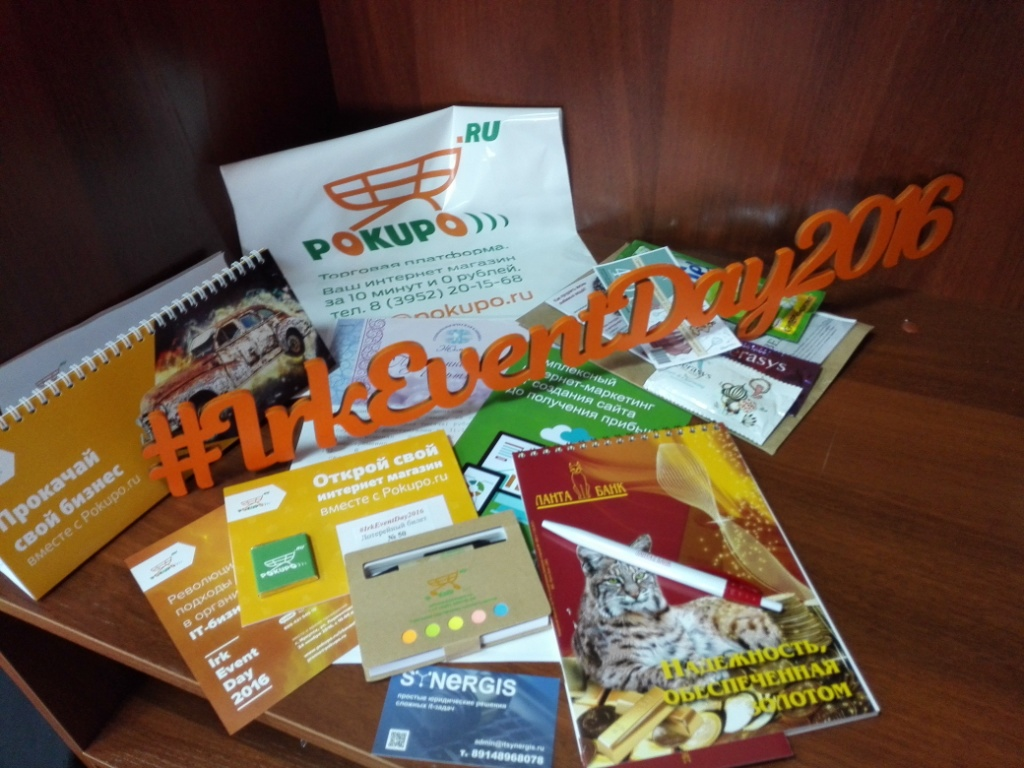
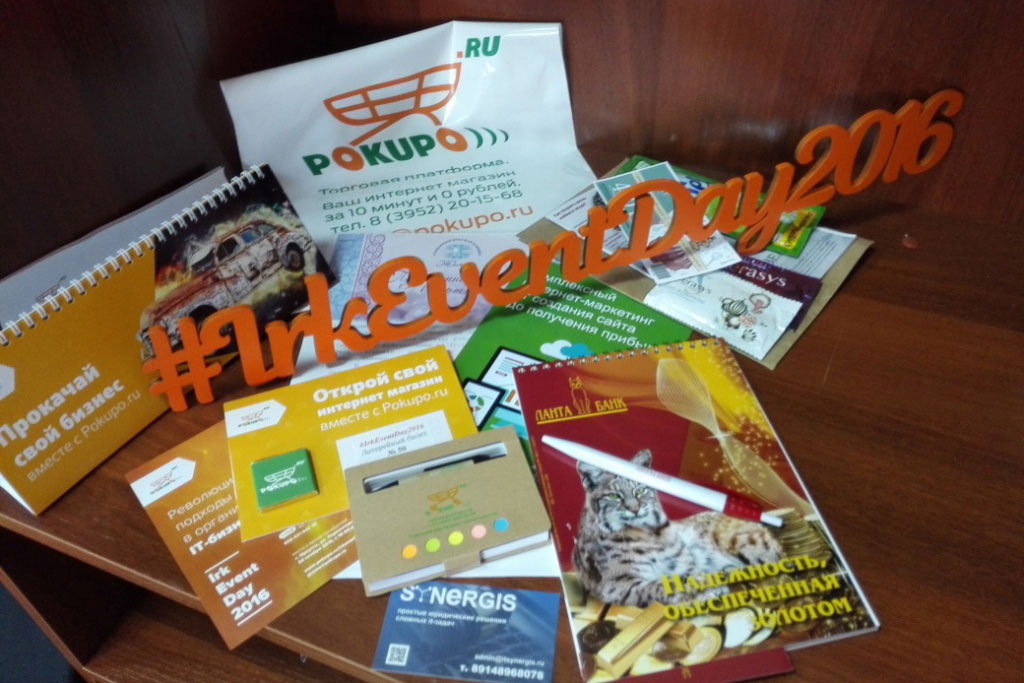
Оптимизированы фото с семинара, сделана разметка раздела Слайдер и написан скрипт слайдера

diff --git a/index.html b/index.html
@@ -189,6 +189,82 @@
               <li>более 98 % участников готовы рекомендовать этот семинар своим знакомым;</li>
               <li>1 участник посетовал на высокую цену билета (600 рублей), позже мы познакомим его и остальных со стоимостью организации этого семинара, чтобы продемонстрировать наглядно ничтожность стоимости билета.</li>
             </ul>
+
+            <!-- Слайдер -->
+            
+            <div class="preview-slider">
+              <button class="button-back">Назад</button>
+              <div class="preview-gallery">
+                <figure class="preview-photo preview-photo--1">
+                  <img src="images/photos/01_IrkEventDay2016_zazda_e-commerce.JPG">
+                  <figcaption>Жажда e-commerce на IrkEventDay2016</figcaption>
+                </figure>
+                <figure class="preview-photo preview-photo--2">
+                  <img src="images/photos/02_IrkEventDay2016_A_Strelov.JPG">
+                  <figcaption>Основатель Pokupo.ru - Александр Стрелов докладывает о синергетических организациях</figcaption>
+                </figure>
+                <figure class="preview-photo preview-photo--3">
+                  <img src="images/photos/03_IrkEventDay2016_D_Salko.JPG">
+                  <figcaption>Дмитрий Салко (Диагран Диджитал) и его веб-аналитика</figcaption>
+                </figure>
+                <figure class="preview-photo preview-photo--4">
+                  <img src="images/photos/04_IrkEventDay2016_E_Emelyanova.JPG">
+                  <figcaption>Екатерина Емельянова (Digital Age) и мифы электронной коммерции</figcaption>
+                </figure>
+                <figure class="preview-photo preview-photo--5">
+                  <img src="images/photos/05_IrkEventDay2016_V_Petrova.JPG">
+                  <figcaption>Виктория Петрова (Home&amp;Beauty) и роль социальных сетей в интернет-маркетинге</figcaption>
+                </figure>
+                <figure class="preview-photo preview-photo--6">
+                  <img src="images/photos/06_IrkEventDay2016_P_Stupko.JPG">
+                  <figcaption>Павел Ступко (Промышленные продажи) и b2b-сегмент</figcaption>
+                </figure>
+                <figure class="preview-photo preview-photo--7">
+                  <img src="images/photos/08_IrkEventDay2016_krugliy_stol.JPG">
+                  <figcaption>Владимир Попов (Synergis) и человеческий блокчейн</figcaption>
+                </figure>
+                <figure class="preview-photo preview-photo--8">
+                  <img src="images/photos/IrkEventDay2016_Denis_Yolgin.JPG">
+                  <figcaption>Денис Ёлгин (Прайм-Групп) и комплексный интернет-маркетинг</figcaption>
+                </figure>
+                <figure class="preview-photo preview-photo--9">
+                  <img src="images/photos/13_IrkEventDay2016_A_Zuenok.JPG">
+                  <figcaption>Артем Зуенок (Pokupo.ru) и искусство техподдержки</figcaption>
+                </figure>
+                <figure class="preview-photo preview-photo--10">
+                  <img src="images/photos/14_IrkEventDay2016_A_Dashinimaev.JPG">
+                  <figcaption>Андрей Дашинимаев (Yohor)</figcaption>
+                </figure>
+                <figure class="preview-photo preview-photo--11">
+                  <img src="images/photos/15_IrkEventDay2016_M_Markina.JPG">
+                  <figcaption>Марина Маркина (в центре) и её опыт продвижения в соц.сетях</figcaption>
+                </figure>
+                <figure class="preview-photo preview-photo--12">
+                  <img src="images/photos/09_IrkEventDay2016_.JPG">
+                  <figcaption>Круглый стол решает о создании IT-сообщества Иркутска</figcaption>
+                </figure>
+                <figure class="preview-photo preview-photo--13">
+                  <img src="images/photos/10_IrkEventDay2016_together.JPG">
+                  <figcaption>ИркИвентДэй2016 - вместе эффективней и сильней</figcaption>
+                </figure>
+                <figure class="preview-photo preview-photo--14">
+                  <img src="images/photos/11_IrkEventDay2016_.JPG">
+                  <figcaption>Один из слушателей</figcaption>
+                </figure>
+                <figure class="preview-photo preview-photo--15">
+                  <img src="images/photos/12_IrkEventDay2016_presents.jpg">
+                  <figcaption>Подарки участникам</figcaption>
+                </figure>
+                <figure class="preview-photo preview-photo--16">
+                  <img src="images/photos/07_IrkEventDay2016_Finish.JPG">
+                  <figcaption>Микрофон ждёт 2017-го</figcaption>
+                </figure>
+              </div>
+              <button class="button-forward">Вперед</button>
+            </div>
+
+            <!-- END - Слайдер -->
+
             <p>Будем рады видеть всех на <strong>IrkEventDay2017!</strong></p>
           </article>
 

diff --git a/scripts/sys.js b/scripts/sys.js
@@ -394,3 +394,38 @@ button.addEventListener("click", function(event) {
 }()); 
 
 /* END - Выпадающие блоки с информацией в расписании */
+
+
+/* Слайдер */
+
+$(".button-back").attr("disabled", "disabled");
+
+$(".button-forward").click(function() {
+  $(".button-back").attr("disabled", false);
+  for (var i = 1; i <= $(".preview-photo").length; i++) {
+    if ($(".preview-photo--" + i).css("display") == "block") {
+      $(".preview-photo--" + i).css("display", "none");
+      $(".preview-photo--" + (i + 1)).css("display", "block");
+      if (i == $(".preview-photo").length - 1) {
+        $(".button-forward").attr("disabled", "disabled");
+      }
+      break;
+    }
+  }
+});
+
+$(".button-back").click(function() {
+  $(".button-forward").attr("disabled", false);
+  for (var i = $(".preview-photo").length; i >= 1; i--) {
+    if ($(".preview-photo--" + i).css("display") == "block") {
+      $(".preview-photo--" + i).css("display", "none");
+      $(".preview-photo--" + (i - 1)).css("display", "block");
+      if (i == 2) {
+        $(".button-back").attr("disabled", "disabled");
+      }
+      break;
+    }
+  }
+});
+
+/* END - Слайдер */

diff --git a/styles/style.css b/styles/style.css
@@ -633,6 +633,46 @@ h3, strong {
   margin-bottom: 0;
 }
 
+/* Слайдер */
+
+.preview-slider {
+  position: relative;
+  margin-bottom: 30px;
+}
+
+.preview-photo {
+  display: none;
+}
+
+.preview-photo:first-child {
+  display: block;
+}
+
+/* .preview-photo img {
+  width: 700px;
+} */
+
+.preview-photo figcaption {
+  margin-top: 10px;
+}
+
+.button-back,
+.button-forward {
+  position: absolute;
+}
+
+.button-back {
+  top: 50%;
+  left: -50px;
+}
+
+.button-forward {
+  top: 50%;
+  right: -50px;
+}
+
+/* END - Слайдер */
+
 /* END - Статья */
 
 .event-countdown {

diff --git a/scripts/script.js b/scripts/script.js
@@ -170,3 +170,10 @@
 }()); 
 
 /* END - Выпадающие блоки с информацией в расписании */
+
+
+/* Слайдер */
+
+
+
+/* END - Слайдер */
